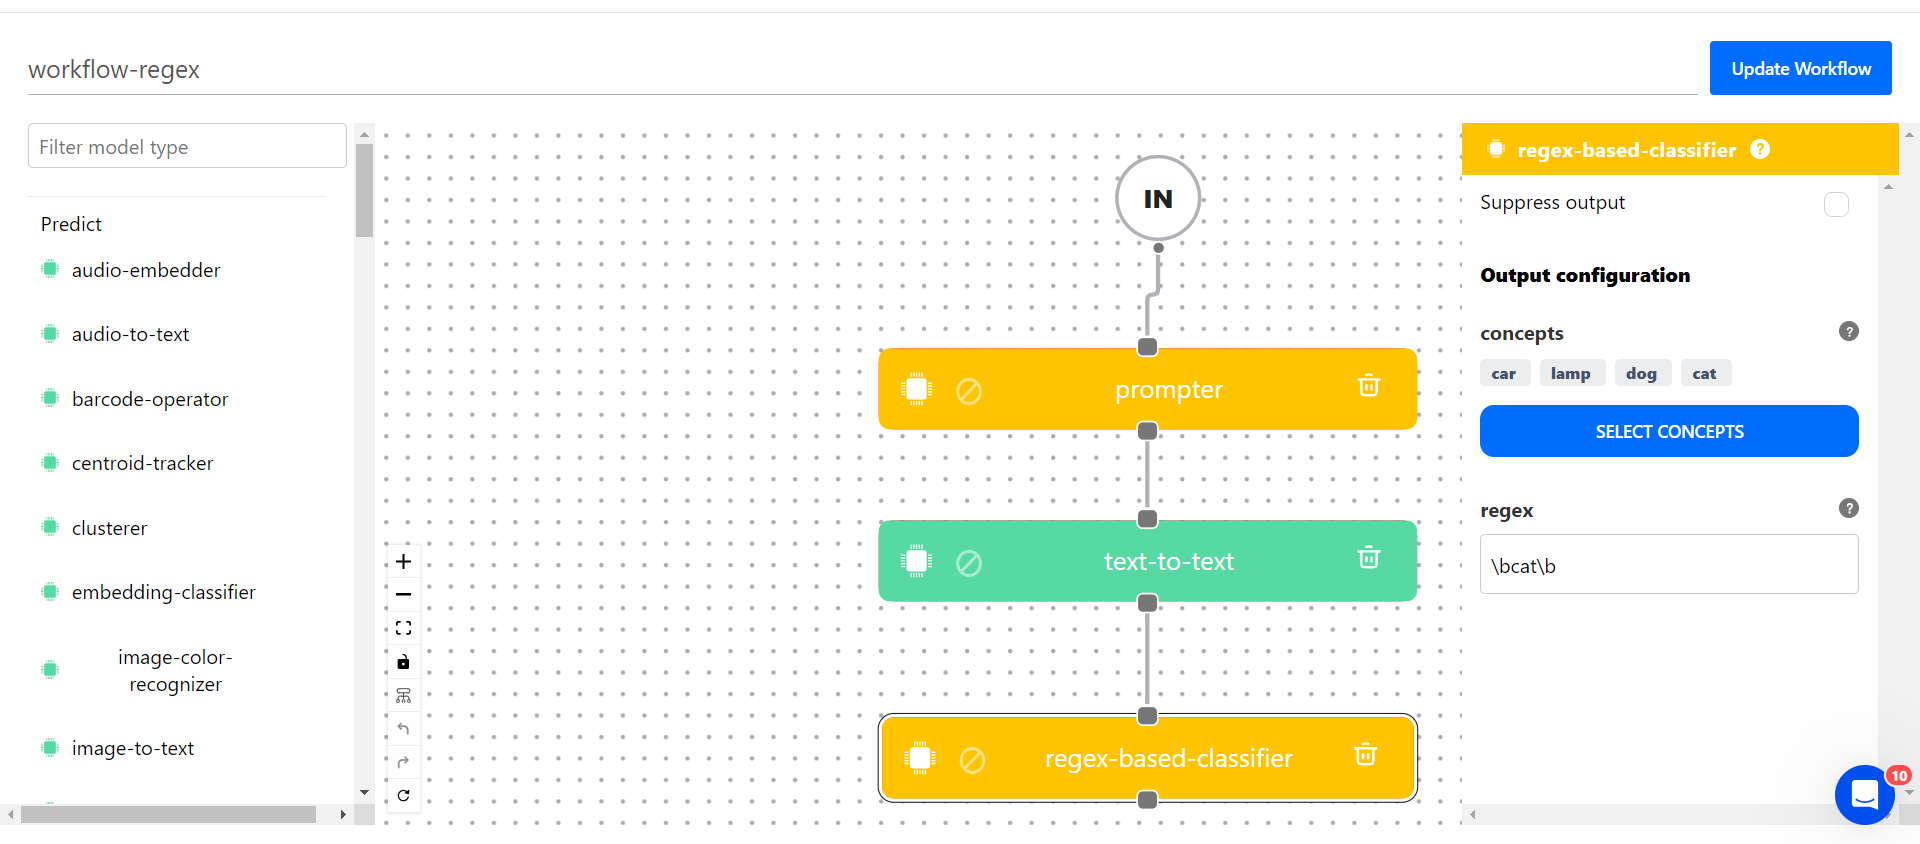
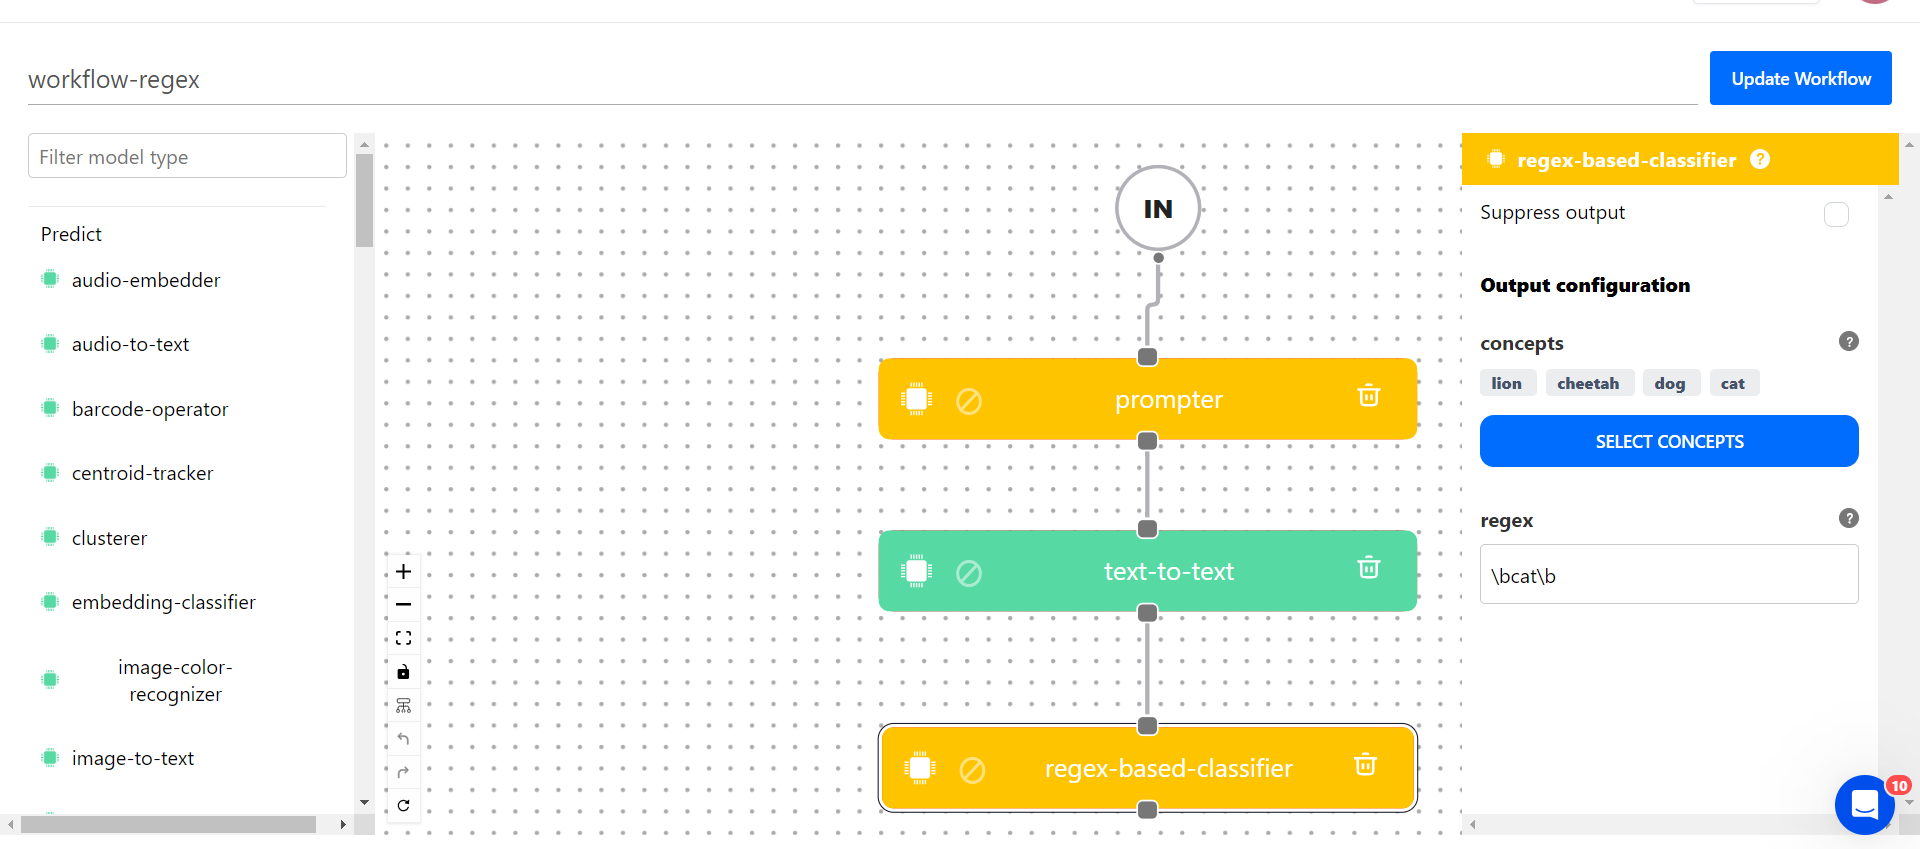
updates to agent system operators

diff --git a/docs/portal-guide/model/agent-system-operators/algorithmic-predict.md b/docs/portal-guide/model/agent-system-operators/algorithmic-predict.md
@@ -28,19 +28,19 @@ Let's demonstrate how you can use the Regex-Based Classifier, alongside [a Promp
 
  Use the pop-up that appears on the right-hand sidebar to set up the template text. For this example, let's use this template text: 
 
-    ```text
-    <s>[INST]<<SYS>>Classify the following description into one of the following classes: ['cat', 'dog', 'lamp', 'car']. Respond only with one of the provided classes.<</SYS>>[/INST]\n{data.text.raw} 
-    ```
+```text
+<s>[INST]<<SYS>>Classify the following description into one of the following classes: ["cat", "dog", "cheetah", "lion"]. Respond only with one of the provided classes.<</SYS>>[/INST]\n{data.text.raw} 
+```
      
 :::note
 
-Since we'll use the [Llama2-7b-chat](https://clarifai.com/meta/Llama-2/models/llama2-7b-chat) model to help with the classification, we format the prompt text using the special tokens it requires for the specific structure of its prompts. We also include the `{data.text.raw}` placeholder to meet the requirements of the **Prompter** template.
+Since we'll use the [llama2-13b-chat](https://clarifai.com/meta/Llama-2/models/llama2-13b-chat) model to help with the classification, we format the prompt text using the special tokens it requires for the specific structure of its prompts. We also include the `{data.text.raw}` placeholder to meet the requirements of the **Prompter** template.
 
 :::
 
-**2**. Search for the **text-to-text** option in the left-hand sidebar and drag it onto the workspace. Then, search for the **Llama2-7b-chat** model on the right-hand sidebar and connect it to the prompter model. 
+**2**. Search for the **text-to-text** option in the left-hand sidebar and drag it onto the workspace. Then, search for the **llama2-13b-chat** model on the right-hand sidebar and connect it to the prompter model. 
 
-**3**. Search for the **regex-based classifier** option in the left-hand sidebar and drag it onto the workspace. On the right-hand sidebar, click the **SELECT CONCEPTS** button and use the pop-up that appears to select the relevant concepts already existing in your application. For this example, we select the following concepts: `cat, dog, lamp, car`.
+**3**. Search for the **regex-based classifier** option in the left-hand sidebar and drag it onto the workspace. On the right-hand sidebar, click the **SELECT CONCEPTS** button and use the pop-up that appears to select the relevant concepts already existing in your application. For this example, we select the following concepts: `cat, dog, cheetah, lion`.
 
 In the **regex** field, provide the regex pattern that will be used to classify the text. If the pattern matches, the text will be classified as the selected concept. For this example, we provide `\bcat\b`, which would match the word "cat" in instances where it appears as a whole word, surrounded by word boundaries.
 
@@ -53,20 +53,20 @@ To observe it in action, navigate to the workflow's individual page and click th
 For this example, let's provide the following input: 
 
 ```text
-A small, four-legged mammal with soft fur, typically characterized by its whiskers, sharp retractable claws, and acute senses. Known for its independent and curious nature, it often displays a variety of behaviors such as grooming itself, purring, and occasionally hunting.
+A small, four-legged mammal with soft fur, typically characterized by its whiskers, sharp retractable claws, and acute senses. Known for its independent and curious nature, it often displays a variety of behaviors such as grooming itself, purring, and occasionally hunting. What is this animal?
 ```
 
 This is the prompt text we get for the model:
 
 ```text
-<s>[INST]<<SYS>>Classify the following description into one of the following classes: [''''cat'''', ''''dog'''', ‘lamp’, ‘car’]. Respond only with one of the provided classes.<</SYS>>[/INST]\nA small, four-legged mammal with soft fur, typically characterized by its whiskers, sharp retractable claws, and acute senses. Known for its independent and curious nature, it often displays a variety of behaviors such as grooming itself, purring, and occasionally hunting.
+<s>[INST]<<SYS>>Classify the following description into one of the following classes: [''cat'', ''dog'', ''cheetah'', ''lion'']. Respond only with one of the provided classes.<</SYS>>[/INST]\nA small, four-legged mammal with soft fur, typically characterized by its whiskers, sharp retractable claws, and acute senses. Known for its independent and curious nature, it often displays a variety of behaviors such as grooming itself, purring, and occasionally hunting. What is this animal?[/INST]
 ```
 
 The model will process the input and classify the description into one of the provided classes. 
 
 ![](/img/others/regex_2.png)
 
-Then, the Regex-Based Classifier will categorize the response into one of the provided concepts, which you can feed into other downstream tasks, such as [an annotation writer](http://localhost:3000/portal-guide/model/agent-system-operators/push#annotation-writer) to create annotations for inputs.
+Then, the Regex-Based Classifier will categorize the response into one of the provided concepts, which you can feed into other downstream tasks, such as [an Annotation Writer](http://localhost:3000/portal-guide/model/agent-system-operators/push#annotation-writer) to create annotations for inputs.
 
 ## KNN Classifier
 

diff --git a/docs/portal-guide/workflows/workflow-builder.md b/docs/portal-guide/workflows/workflow-builder.md
@@ -1,5 +1,5 @@
 ---
-description: Easily build custom workflows.
+description: Easily build custom workflows
 sidebar_position: 2
 ---
 
@@ -11,29 +11,14 @@ sidebar_position: 2
 The workflow builder is designed to make it easy for you to create, modify, and experiment with AI workflows.
 You can create the skeleton of a workflow by connecting one or more models, and then configuring each model-type as a node in your workflow.  
 
-Non-trainable models (also known as "model operators") can be added to workflows on-the-fly, without the need to pre-configure these models ahead of time. You can even view and edit the output settings of any model in a workflow, directly in the graph editor.
+Agent system operators are non-trainable models that can be added to workflows on-the-fly, without the need to pre-configure these models ahead of time. You can even view and edit the output settings of any model in a workflow, directly in the graph editor.
 
-## Model Types
+:::tip
 
-### Filter
+- [Click here](https://docs.clarifai.com/portal-guide/model/model-types/) to learn more about the types of models we offer. 
+- [Click here](https://docs.clarifai.com/portal-guide/model/agent-system-operators/) to learn more about the types of agent system operators we offer. 
 
-Filtering helps you to remove unwanted data from your workflow. This data might take the form of inputs (like images, video, and text), or it might be an output from another model, like a predicted concept. One very common use of filters in workflows is to eliminate predictions that fall below a certain confidence threshold.
-
-### Edit
-
-Edit models help you to transform and/or augment your data. Edit models can be used to crop out regions of an image, align an image based on the pose of a face, or even map predictions from one model to another.
-
-### Action
-
-Action models help you to automate processes. You can trigger a wide variety of actions based on predictions made by models in your workflow. You can automatically send an SMS message when a certain object is detected, you can add a label to an image based on predicted concepts, and you can even trigger aws-lambda functions.
-
-### Aggregate
-
-Aggregation models consolidate multiple model outputs into a single output. Aggregation is important for a wide variety of image, video and text use cases, and can help you count objects, connect individually detected words into sentences, or connect objects across multiple frames of video.
-
-### Predict
-
-Prediction models are the "intelligent" part of your AI workflows. Predictions help you to understand, classify and organize your data. Predictions can be used to drive behaviors in other nodes in your workflow. Predictions take specific input types and then return predictions about things like the concepts, regions, poses, characters, words, and the abstract visual characteristics of your inputs.
+:::
 
 ## Building Workflows
 

diff --git a/docs/portal-guide/model/agent-system-operators/transform.md b/docs/portal-guide/model/agent-system-operators/transform.md
@@ -8,7 +8,9 @@ sidebar_position: 2
 **Learn about our transform operators**
 <hr />
 
-Transform operators are a specific type of agent system operators that are specialized for data transformation tasks. These operators are responsible for modifying or transforming data as it passes through the workflow.
+Transform operators are a specific type of agent system operators that are specialized for data transformation tasks. These operators are responsible for modifying and/or augmenting your data as it passes through the workflow.
+
+They can be used to crop out regions of an image, align an image based on the pose of a face, or even map predictions from one model to another.
 
 :::tip
 

diff --git a/docs/portal-guide/model/agent-system-operators/filter.md b/docs/portal-guide/model/agent-system-operators/filter.md
@@ -8,6 +8,8 @@ sidebar_position: 1
 **Learn about our filter operators**
 <hr />
 
+Filtering helps you to remove unwanted data from your workflow. This data might take the form of inputs (like images, video, and text), or it might be an output from another model, like a predicted concept. One very common use of filters in workflows is to eliminate predictions that fall below a certain confidence threshold.
+
 ## Concept Thresholder 
 
 **Output**: Concepts

diff --git a/docs/portal-guide/model/agent-system-operators/aggregate.md b/docs/portal-guide/model/agent-system-operators/aggregate.md
@@ -8,6 +8,8 @@ sidebar_position: 4
 **Learn about our aggregate operators**
 <hr />
 
+Aggregation operators consolidate multiple model outputs into a single output. Aggregation is important for a wide variety of image, video, and text use cases, and can help you count objects, connect individually detected words into sentences, or connect objects across multiple frames of video.
+
 ## Text Aggregation Operator 
 
 **Output**: Text

diff --git a/docs/portal-guide/model/agent-system-operators/push.md b/docs/portal-guide/model/agent-system-operators/push.md
@@ -8,6 +8,8 @@ sidebar_position: 3
 **Learn about our push operators**
 <hr />
 
+Push operators help you to automate processes. You can trigger a wide variety of actions based on predictions made by models in your workflow. You can automatically add a label to an image based on predicted concepts, send an SMS message when a certain object is detected, and more.
+
 ## Annotation Writer 
 
 **Output**: Any
